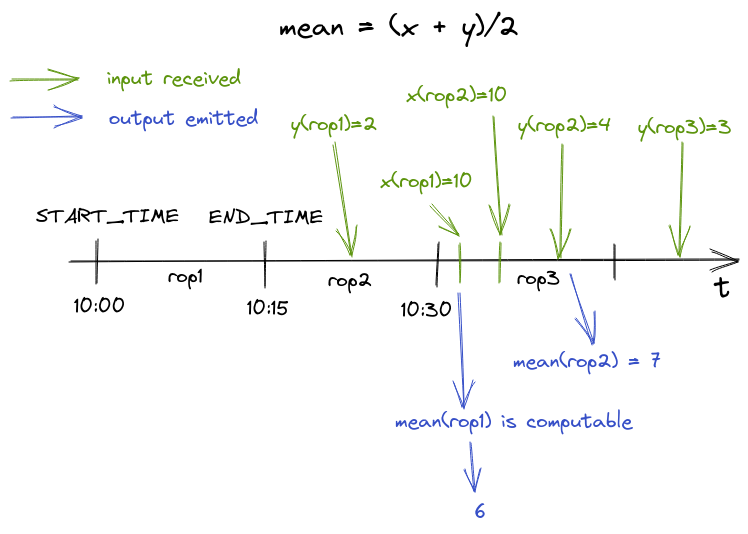
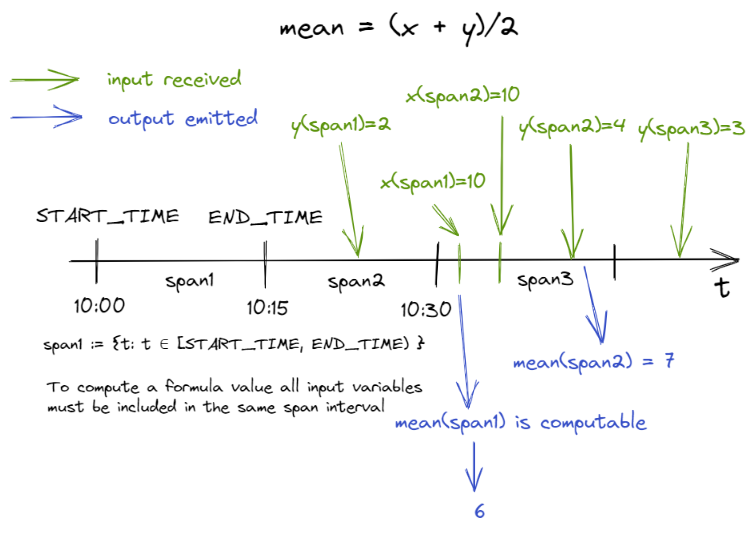
Improve docs

diff --git a/docs/src/index.md b/docs/src/index.md
@@ -31,34 +31,33 @@ The identifier of the element sending the input variables.
 
 It is up to you to choose the acronym for `sn` that best fits the context: sensor name, scope name or short name if it were a unique string extracted for a long distinguish name `dn` string.
 
-### time window
+### time span
 
-A time window includes all the timestamps in the interval `rop`:
+A time span includes all the timestamps in a time interval:
 
-```rop = { t ∈ N | START_INTERVAL <= t < END_TIME }```
+```span = { t ∈ N | START_INTERVAL <= t < END_TIME }```
 
-Timestamps are integer values with second granularity. 
+Timestamps `t` are integer values with second granularity. 
 
-In a periodic data collection system the time window `rop`
-identifies a *Report Output Period*.
+For example suppose that a data collection system uses a 15 minutes span interval:
+in this case an hour is divided into 4 intervals and from ten to eleven of some (omitted) day you have:
 
-For example suppose that a data collection system uses a 15 minutes rop interval:
-in this case an hour is divided into 4 rops and from ten to eleven of some (omitted) day you have:
+* span1 =  { t ∈ [10:00:00, 10:15:00) }
+* span2 =  { t ∈ [10:15:00, 10:30:00) }
+* span3 =  { t ∈ [10:30:00, 10:45:00) }
+* span4 =  { t ∈ [10:45:00, 11:00:00) }
 
-* rop1 =  { t ∈ [10:00:00, 10:15:00) }
-* rop2 =  { t ∈ [10:15:00, 10:30:00) }
-* rop3 =  { t ∈ [10:30:00, 10:45:00) }
-* rop4 =  { t ∈ [10:45:00, 11:00:00) }
+By convention the span interval is identified by its START_TIME.
 
-Conventionally the rop is identified by its START_TIME: in the above example `rop1` is the ten o'clock rop.
+The formula value computed from inputs with timestamps included into the span `[START_TIME, END_TIME)` has timestamp equal to `START_TIME`.
 
-The rop interval `width` is an abaco setting, user-defined at startup.
+The `width` of the span interval is an abaco setting, user-defined at startup.
 
 ## ages
 
-The number of `ages` defines how many consecutive rops are managed.
+The number of `ages` defines how many consecutive time spans are managed.
 
-For example, for a `rop` width of 15 minutes, set `ages` to 4 if your network devices may send data with a maximum delay of an hour. A received value marked with a timestamp distant 4 or more rops from the latest rop is discarded.
+For example, for a time span of 15 minutes, set `ages` to 4 if your network devices may send data with a maximum delay of an hour. A received value marked with a timestamp distant 4 or more spans from the latest span is discarded.
 
 The number of `ages` is an abaco setting, user-defined at startup.
 
@@ -77,8 +76,8 @@ Usage:
 ```julia
 using Abaco
 
-# Initialize abaco context with a rop time_window of 60 seconds and handle
-# input values with timestamp ts up to 4 contiguous rops.
+# Initialize abaco context with a time_window of 60 seconds and handle
+# input values with timestamp ts up to 4 contiguous spans.
 abaco = abaco_init(width=60, ages=4) do ts, sn, fname, value, inputs
     @info "[$ts][$sn] function $fname=$value"
 end
@@ -119,7 +118,7 @@ add_value!(abaco, ts, device, "y", 20)
 
 # Now arrives the variable x from CE987 that make some formulas computables.
 # Note that x timestamp is 65, y timestamp is 101
-# and the formulas timestamp is 60: the START_TIME of the rop. 
+# and the formulas timestamp is 60: the START_TIME of the span. 
 ts = 101
 device = "CE987"
 add_value!(abaco, ts, device, "x", 10)

diff --git a/README.md b/README.md
@@ -25,7 +25,7 @@ Minimal example:
 ```julia
 using Abaco
 
-# Initialize abaco context with a time interval large 60 seconds and handle
+# Initialize abaco context with a time span of 60 seconds and handle
 # input values with timestamp ts up to 4 (ages) contiguous time intervals.
 # When a formula is evaluated because all inputs variables are known traces
 # an info record.
